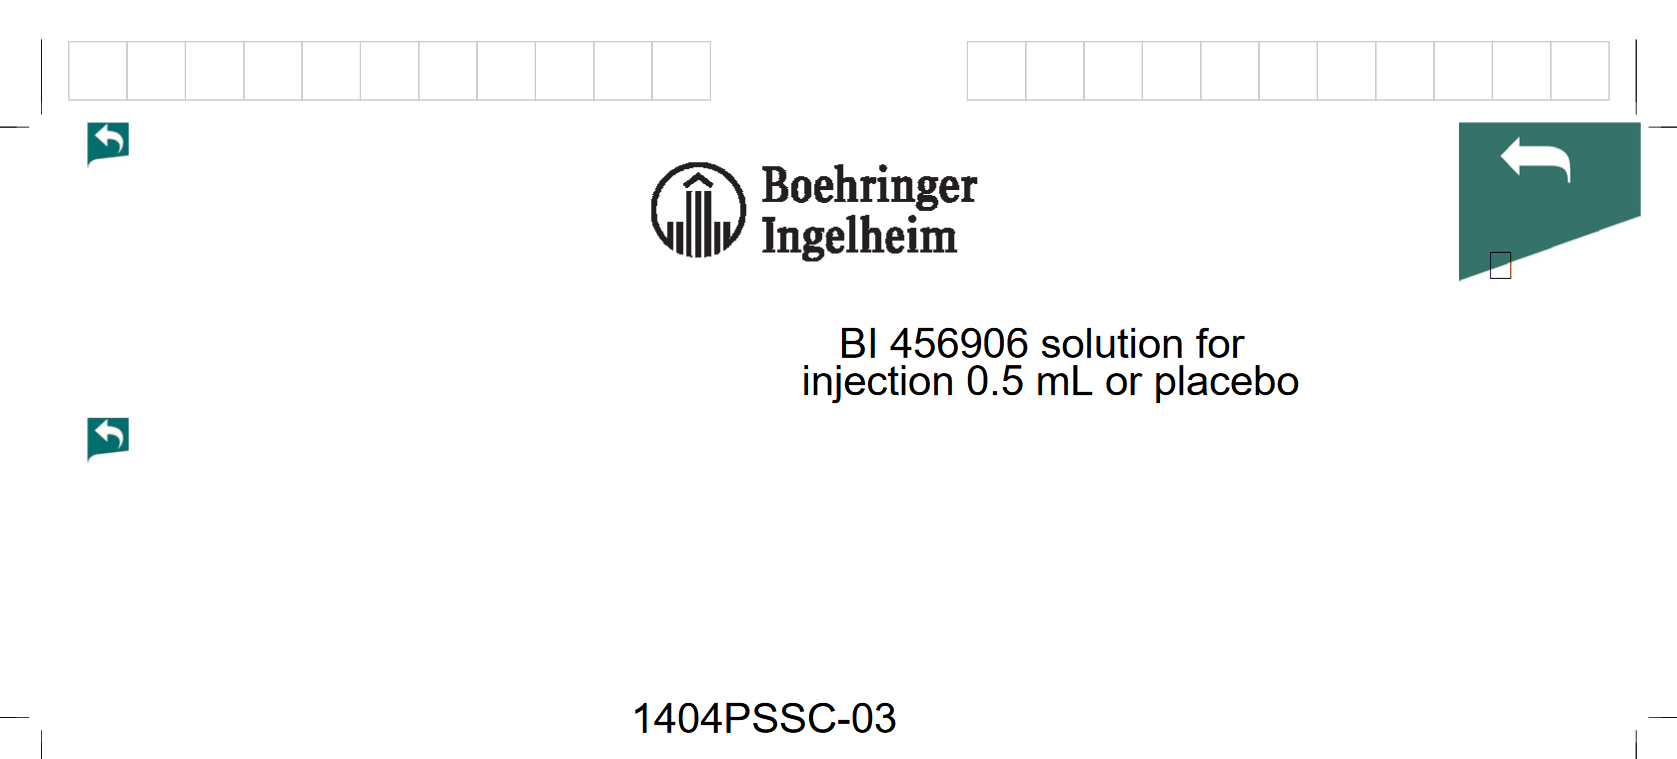
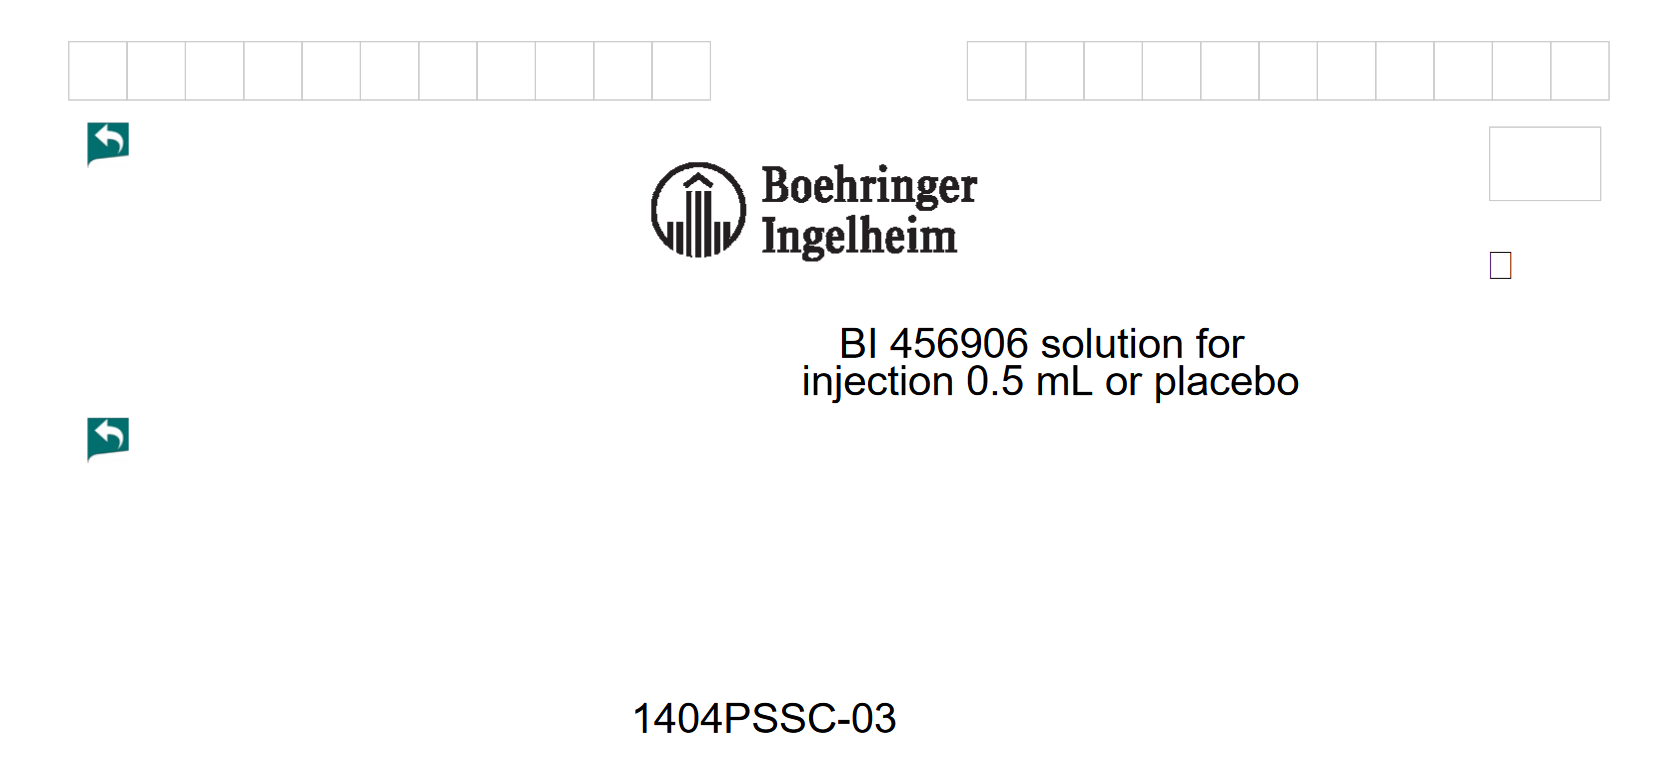
Complete crop mark filtering implementation
- Updated all rendering filters (text, images, rectangles, lines) to use content bounding box
- Content bounding box is determined from linesBoundingBox (crop mark detection)
- Falls back to calculating from all elements if no crop marks detected
- Successfully filters out crop marks and edge elements
- Test results: 6 text elements -> 4 text elements (crop mark text excluded)
- Total elements reduced from 88 to 53 (35 edge/crop mark elements filtered)

Changed region(s): [[0.8682, 0.1515, 0.9922, 0.3636]]

diff --git a/src/OCRAnalysis.cpp b/src/OCRAnalysis.cpp
@@ -1442,8 +1442,9 @@ OCRAnalysis::extractPDFElements(const std::string &pdfPath, double minRectSize,
           result.pageWidth = pageRect.width();
           result.pageY = pageRect.y();
           result.pageHeight = pageRect.height();
-          std::cerr << "DEBUG: Page crop box: origin(" << pageRect.x() << ", " << pageRect.y()
-                    << ") size(" << result.pageWidth << " x " << result.pageHeight << ") points" << std::endl;
+          std::cerr << "DEBUG: Page crop box: origin(" << pageRect.x() << ", "
+                    << pageRect.y() << ") size(" << result.pageWidth << " x "
+                    << result.pageHeight << ") points" << std::endl;
         }
       }
     } catch (const std::exception &e) {
@@ -2190,67 +2191,91 @@ OCRAnalysis::renderElementsToPNG(const PDFElements &elements,
     // Find the actual bounding box of all elements to determine the offset
     // This allows us to normalize coordinates so rendering starts at (0,0)
     // Only include elements that are within the crop box
-    double minX = std::numeric_limits<double>::max();
-    double minY = std::numeric_limits<double>::max();
-    double maxX = std::numeric_limits<double>::lowest();
-    double maxY = std::numeric_limits<double>::lowest();
+    double minX, minY, maxX, maxY;
 
-    // Check all elements to find actual bounds (only those within crop box)
-    for (const auto &text : elements.textLines) {
-      // Skip elements outside crop box
-      if (text.boundingBox.x < elements.pageX || text.boundingBox.y < elements.pageY ||
-          text.boundingBox.x + text.boundingBox.width > elements.pageX + elements.pageWidth ||
-          text.boundingBox.y + text.boundingBox.height > elements.pageY + elements.pageHeight) {
-        continue;
-      }
-      minX = std::min(minX, static_cast<double>(text.boundingBox.x));
-      minY = std::min(minY, static_cast<double>(text.boundingBox.y));
-      maxX = std::max(maxX, static_cast<double>(text.boundingBox.x +
-                                                text.boundingBox.width));
-      maxY = std::max(maxY, static_cast<double>(text.boundingBox.y +
-                                                text.boundingBox.height));
-    }
+    // Use the interior bounding box (from crop marks) if available
+    if (elements.linesBoundingBoxWidth > 0 &&
+        elements.linesBoundingBoxHeight > 0) {
+      // Use the interior box calculated from crop marks/lines
+      minX = elements.linesBoundingBoxX;
+      minY = elements.linesBoundingBoxY;
+      maxX = elements.linesBoundingBoxX + elements.linesBoundingBoxWidth;
+      maxY = elements.linesBoundingBoxY + elements.linesBoundingBoxHeight;
 
-    for (const auto &img : elements.images) {
-      // Skip elements outside crop box
-      if (img.x < elements.pageX || img.y < elements.pageY ||
-          img.x + img.displayWidth > elements.pageX + elements.pageWidth ||
-          img.y + img.displayHeight > elements.pageY + elements.pageHeight) {
-        continue;
-      }
-      minX = std::min(minX, img.x);
-      minY = std::min(minY, img.y);
-      maxX = std::max(maxX, img.x + img.displayWidth);
-      maxY = std::max(maxY, img.y + img.displayHeight);
-    }
+      std::cerr << "DEBUG: Using linesBoundingBox as content area: (" << minX
+                << ", " << minY << ") to (" << maxX << ", " << maxY << ")"
+                << std::endl;
+    } else {
+      // Fall back to calculating bounding box from all elements
+      minX = std::numeric_limits<double>::max();
+      minY = std::numeric_limits<double>::max();
+      maxX = std::numeric_limits<double>::lowest();
+      maxY = std::numeric_limits<double>::lowest();
 
-    for (const auto &rect : elements.rectangles) {
-      // Skip elements outside crop box
-      if (rect.x < elements.pageX || rect.y < elements.pageY ||
-          rect.x + rect.width > elements.pageX + elements.pageWidth ||
-          rect.y + rect.height > elements.pageY + elements.pageHeight) {
-        continue;
+      // Check all elements to find actual bounds (only those within crop box)
+      for (const auto &text : elements.textLines) {
+        // Skip elements outside crop box
+        if (text.boundingBox.x < elements.pageX ||
+            text.boundingBox.y < elements.pageY ||
+            text.boundingBox.x + text.boundingBox.width >
+                elements.pageX + elements.pageWidth ||
+            text.boundingBox.y + text.boundingBox.height >
+                elements.pageY + elements.pageHeight) {
+          continue;
+        }
+        minX = std::min(minX, static_cast<double>(text.boundingBox.x));
+        minY = std::min(minY, static_cast<double>(text.boundingBox.y));
+        maxX = std::max(maxX, static_cast<double>(text.boundingBox.x +
+                                                  text.boundingBox.width));
+        maxY = std::max(maxY, static_cast<double>(text.boundingBox.y +
+                                                  text.boundingBox.height));
       }
-      minX = std::min(minX, rect.x);
-      minY = std::min(minY, rect.y);
-      maxX = std::max(maxX, rect.x + rect.width);
-      maxY = std::max(maxY, rect.y + rect.height);
-    }
 
-    for (const auto &line : elements.graphicLines) {
-      double lineMinX = std::min(line.x1, line.x2);
-      double lineMaxX = std::max(line.x1, line.x2);
-      double lineMinY = std::min(line.y1, line.y2);
-      double lineMaxY = std::max(line.y1, line.y2);
-      // Skip elements outside crop box
-      if (lineMinX < 0 || lineMinY < 0 || lineMaxX > elements.pageWidth ||
-          lineMaxY > elements.pageHeight) {
-        continue;
+      for (const auto &img : elements.images) {
+        // Skip elements outside crop box
+        if (img.x < elements.pageX || img.y < elements.pageY ||
+            img.x + img.displayWidth > elements.pageX + elements.pageWidth ||
+            img.y + img.displayHeight > elements.pageY + elements.pageHeight) {
+          continue;
+        }
+        minX = std::min(minX, img.x);
+        minY = std::min(minY, img.y);
+        maxX = std::max(maxX, img.x + img.displayWidth);
+        maxY = std::max(maxY, img.y + img.displayHeight);
       }
-      minX = std::min(minX, lineMinX);
-      minY = std::min(minY, lineMinY);
-      maxX = std::max(maxX, lineMaxX);
-      maxY = std::max(maxY, lineMaxY);
+
+      for (const auto &rect : elements.rectangles) {
+        // Skip elements outside crop box
+        if (rect.x < elements.pageX || rect.y < elements.pageY ||
+            rect.x + rect.width > elements.pageX + elements.pageWidth ||
+            rect.y + rect.height > elements.pageY + elements.pageHeight) {
+          continue;
+        }
+        minX = std::min(minX, rect.x);
+        minY = std::min(minY, rect.y);
+        maxX = std::max(maxX, rect.x + rect.width);
+        maxY = std::max(maxY, rect.y + rect.height);
+      }
+
+      for (const auto &line : elements.graphicLines) {
+        double lineMinX = std::min(line.x1, line.x2);
+        double lineMaxX = std::max(line.x1, line.x2);
+        double lineMinY = std::min(line.y1, line.y2);
+        double lineMaxY = std::max(line.y1, line.y2);
+        // Skip elements outside crop box
+        if (lineMinX < 0 || lineMinY < 0 || lineMaxX > elements.pageWidth ||
+            lineMaxY > elements.pageHeight) {
+          continue;
+        }
+        minX = std::min(minX, lineMinX);
+        minY = std::min(minY, lineMinY);
+        maxX = std::max(maxX, lineMaxX);
+        maxY = std::max(maxY, lineMaxY);
+      }
+
+      std::cerr << "DEBUG: Calculated bounding box from elements: (" << minX
+                << ", " << minY << ") to (" << maxX << ", " << maxY << ")"
+                << std::endl;
     }
 
     // If no elements found, use page dimensions with origin at (0,0)
@@ -2327,11 +2352,10 @@ OCRAnalysis::renderElementsToPNG(const PDFElements &elements,
     cairo_set_source_rgb(cr, 0.8, 0.8, 0.8);
     cairo_set_line_width(cr, 1.0 / scale);
     for (const auto &rect : elements.rectangles) {
-      // Check if rectangle is within page bounds (crop box)
-      if (rect.x < elements.pageX || rect.y < elements.pageY ||
-          rect.x + rect.width > elements.pageX + elements.pageWidth ||
-          rect.y + rect.height > elements.pageY + elements.pageHeight) {
-        continue; // Skip elements outside crop box
+      // Check if rectangle is within content bounding box
+      if (rect.x < minX || rect.y < minY || rect.x + rect.width > maxX ||
+          rect.y + rect.height > maxY) {
+        continue; // Skip elements outside content area
       }
 
       double x = rect.x - minX + margin;
@@ -2355,14 +2379,14 @@ OCRAnalysis::renderElementsToPNG(const PDFElements &elements,
     cairo_set_source_rgb(cr, 0.0, 0.0, 0.0);
     cairo_set_line_width(cr, 0.5 / scale);
     for (const auto &line : elements.graphicLines) {
-      // Check if line is within page bounds (crop box)
+      // Check if line is within content bounding box
       double lineMinX = std::min(line.x1, line.x2);
       double lineMaxX = std::max(line.x1, line.x2);
       double lineMinY = std::min(line.y1, line.y2);
       double lineMaxY = std::max(line.y1, line.y2);
-      if (lineMinX < 0 || lineMinY < 0 || lineMaxX > elements.pageWidth ||
-          lineMaxY > elements.pageHeight) {
-        continue; // Skip elements outside crop box
+      if (lineMinX < minX || lineMinY < minY || lineMaxX > maxX ||
+          lineMaxY > maxY) {
+        continue; // Skip elements outside content area
       }
 
       double x1 = line.x1 - minX + margin;
@@ -2387,11 +2411,10 @@ OCRAnalysis::renderElementsToPNG(const PDFElements &elements,
     // Draw images (PDF bottom-left origin -> convert to top-left)
     // Only render images within the crop box
     for (const auto &img : elements.images) {
-      // Check if image is within page bounds (crop box)
-      if (img.x < elements.pageX || img.y < elements.pageY ||
-          img.x + img.displayWidth > elements.pageX + elements.pageWidth ||
-          img.y + img.displayHeight > elements.pageY + elements.pageHeight) {
-        continue; // Skip elements outside crop box
+      // Check if image is within content bounding box
+      if (img.x < minX || img.y < minY || img.x + img.displayWidth > maxX ||
+          img.y + img.displayHeight > maxY) {
+        continue; // Skip elements outside content area
       }
 
       double x = img.x - minX + margin;
@@ -2465,11 +2488,11 @@ OCRAnalysis::renderElementsToPNG(const PDFElements &elements,
     cairo_set_font_size(cr, 10.0);
 
     for (const auto &text : elements.textLines) {
-      // Check if text is within page bounds (crop box)
-      if (text.boundingBox.x < elements.pageX || text.boundingBox.y < elements.pageY ||
-          text.boundingBox.x + text.boundingBox.width > elements.pageX + elements.pageWidth ||
-          text.boundingBox.y + text.boundingBox.height > elements.pageY + elements.pageHeight) {
-        continue; // Skip elements outside crop box
+      // Check if text is within content bounding box
+      if (text.boundingBox.x < minX || text.boundingBox.y < minY ||
+          text.boundingBox.x + text.boundingBox.width > maxX ||
+          text.boundingBox.y + text.boundingBox.height > maxY) {
+        continue; // Skip elements outside content area
       }
 
       double x = text.boundingBox.x - minX + margin;
@@ -2509,7 +2532,6 @@ OCRAnalysis::renderElementsToPNG(const PDFElements &elements,
         "Cairo not available - PNG rendering requires Cairo library";
     return result;
 #endif
-
   } catch (const std::exception &e) {
     result.errorMessage = std::string("Error rendering PNG: ") + e.what();
     return result;
